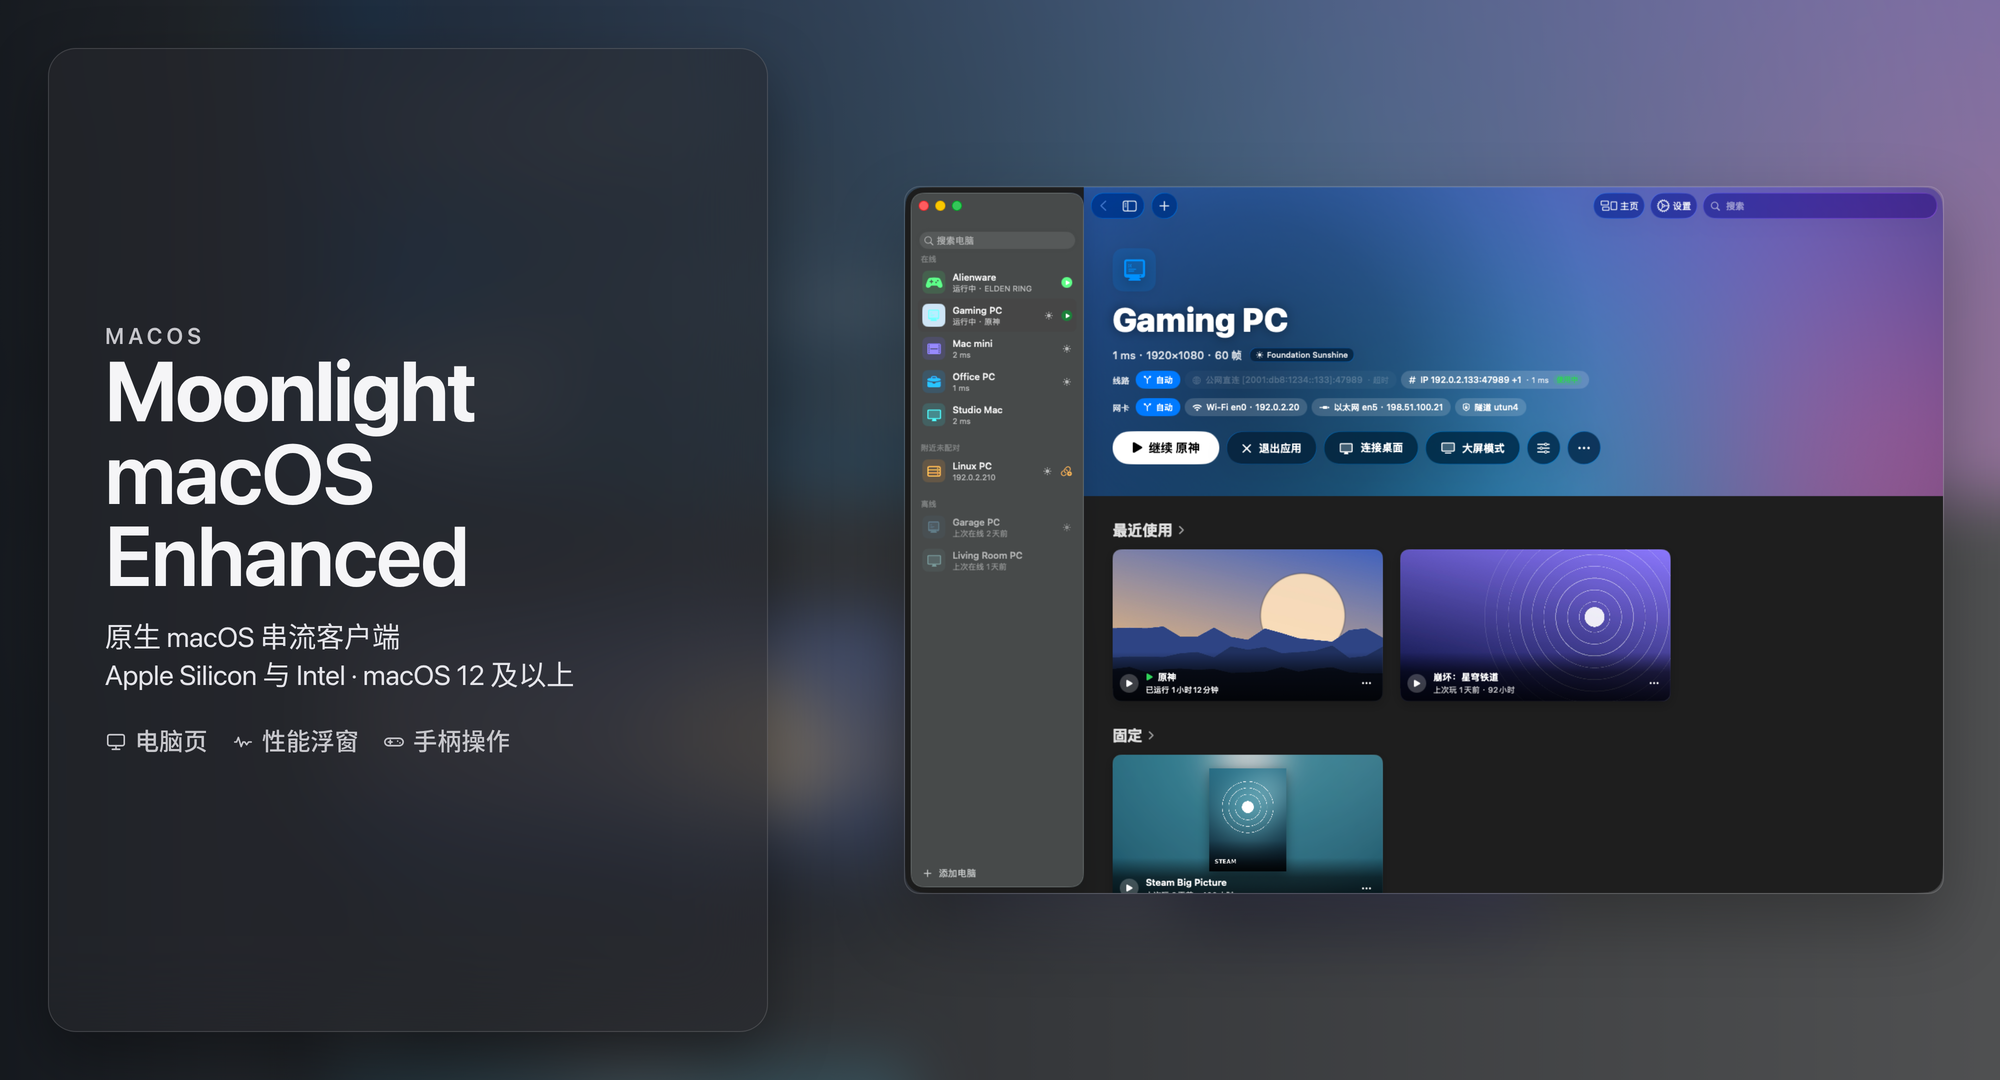
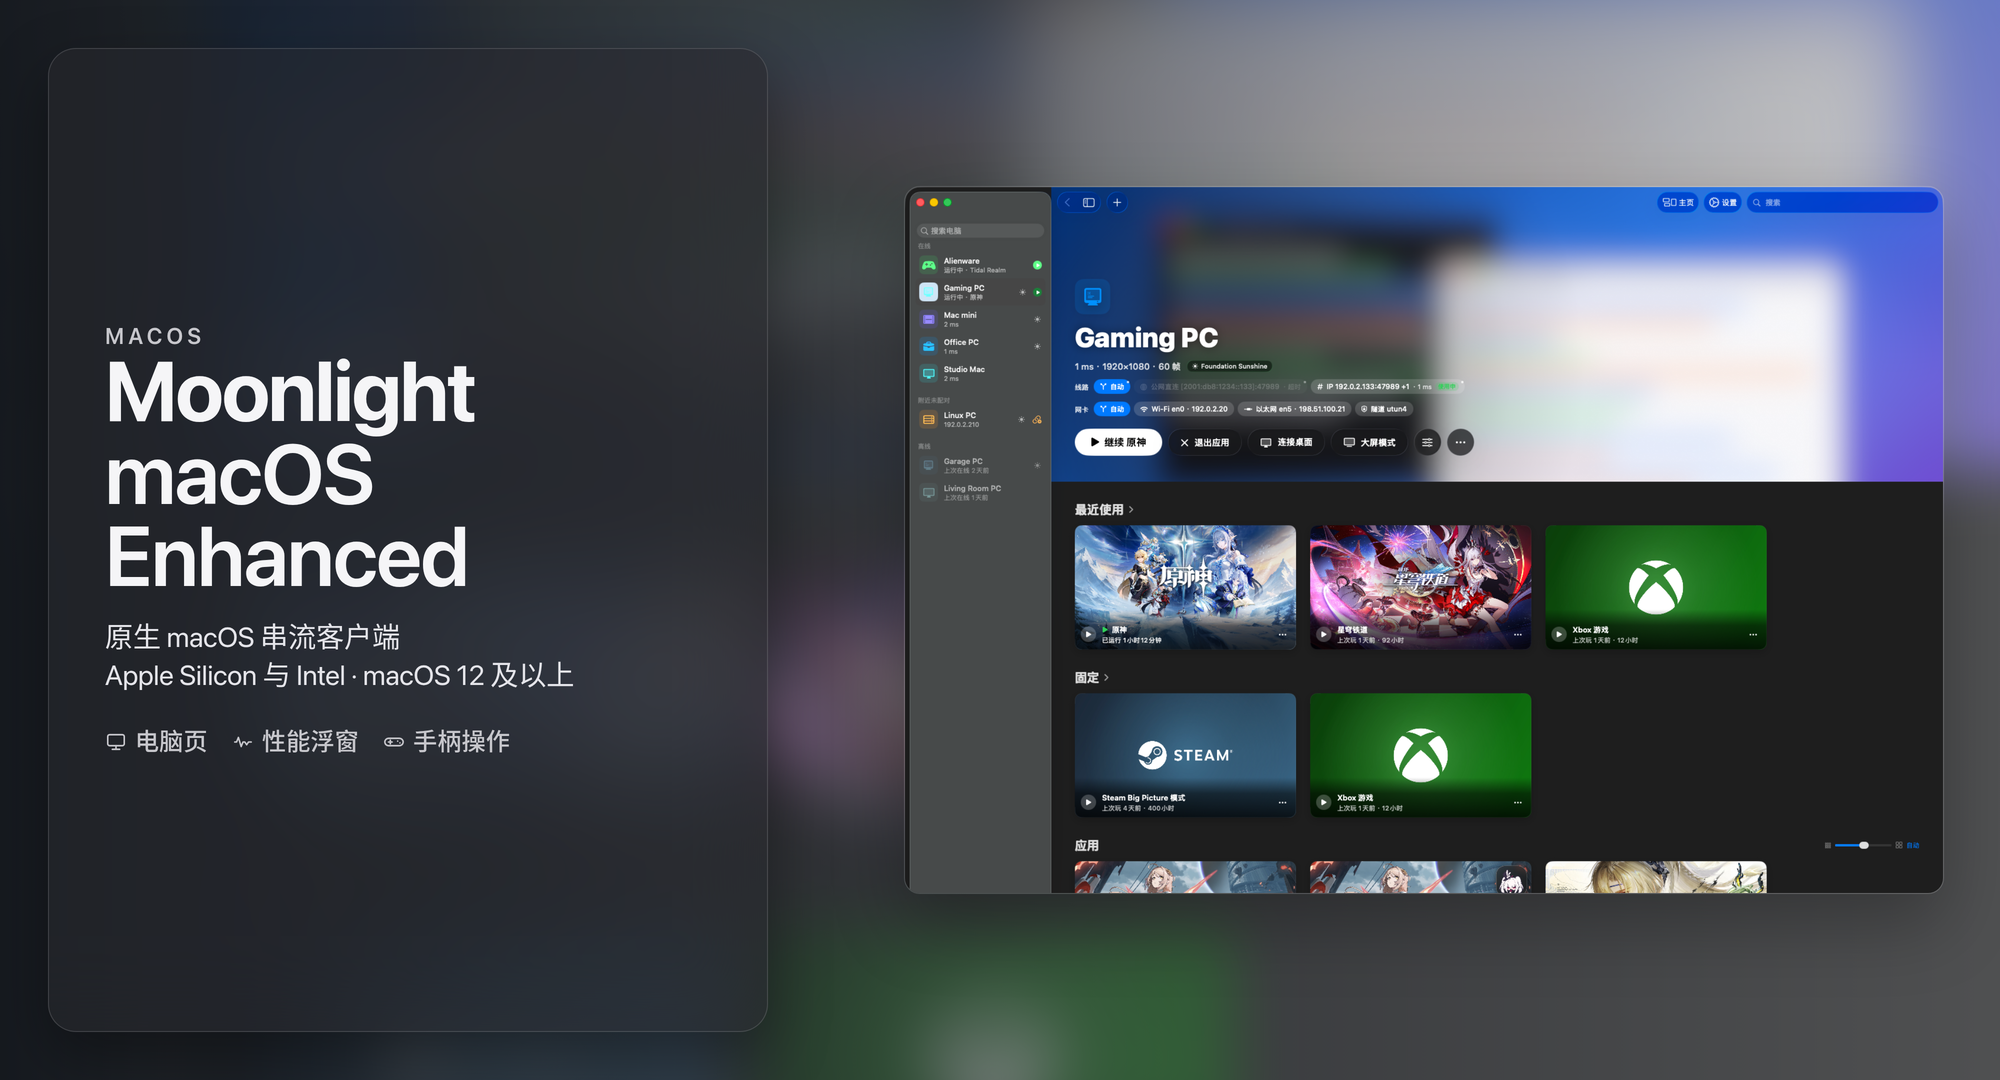
docs(readme): refresh the header visual with the new home screen
The header key visual shows the new home screen with the full library, in light and dark, Chinese and English. The screenshot section starts with the feature table.

diff --git a/README.en.md b/README.en.md
@@ -24,7 +24,7 @@
 
 ## Current Release
 
-**1.3.9 RC8** is described in the [1.3.9 RC8 release notes](.github/release-notes/v1.3.9-rc.8.md). The home page has been redesigned around your computers, there is a new performance HUD, and a controller can operate the home page and Settings. Published packages remain the ones on [Releases](https://github.com/skyhua0224/moonlight-macos-enhanced/releases). 1.3.9 is the final release before the native architecture rebuild.
+**1.3.9 RC8** is described in the [1.3.9 RC8 release notes](.github/release-notes/v1.3.9-rc.8.md). The main window has been redesigned, with fine-grained personalisation, Card and Big Picture views and landscape posters; there is a new performance HUD, and a controller can operate the home page and Settings. Published packages remain the ones on [Releases](https://github.com/skyhua0224/moonlight-macos-enhanced/releases). 1.3.9 is the final release before the native architecture rebuild.
 
 - Download it from [Releases](https://github.com/skyhua0224/moonlight-macos-enhanced/releases). Packages come as `universal`, `arm64`, and `x86_64`; choose `universal` if unsure.
 - If 1.3.9 is already installed, check for updates in `Settings → About & Updates`.
@@ -32,7 +32,7 @@
 
 What changed in 1.3.9 compared with 1.3.8:
 
-- **Every page redesigned**: the home page is built around your computers, Settings can be searched down to individual options, and the whole app works with a controller.
+- **Every page redesigned**: the main window can be personalised, Settings can be searched down to individual options, and the whole app works with a controller.
 - **Setting Profiles**: compare each host with the Default Profile, copy settings, keep presets, import and export.
 - **Audio**: lossless PCM, AC3, E-AC3 and Dolby passthrough, and an output device you can switch during a stream. Audio Enhancement adds a parametric equalizer, headphone correction presets and binaural surround on headphones.
 - **Input**: Precision Touchpad, text entry through macOS input methods, key mapping by typed character, system shortcut capture, Windows key order and Type Clipboard Text. Touchscreen Macs can stream with direct touch. DualSense supports its touchpad, lighting, battery and haptics.
@@ -65,11 +65,6 @@ What changed in 1.3.9 compared with 1.3.8:
 Some of these require Foundation Sunshine; see the next section.
 
 ## Screenshots
-
-<picture>
-  <source media="(prefers-color-scheme: dark)" srcset="readme-assets/images/en/home-dark.png">
-  <img src="readme-assets/images/en/home.png" width="760" alt="Main window">
-</picture>
 
 <table>
 <tr>

diff --git a/README.md b/README.md
@@ -24,7 +24,7 @@
 
 ## 当前版本
 
-**1.3.9 RC8** 的变更见 [1.3.9 RC8 更新说明](.github/release-notes/v1.3.9-rc.8.md)。主页重新设计，以你的电脑为中心；新增性能浮窗；手柄可以操作主页和设置。已发布的安装包仍以 [Releases](https://github.com/skyhua0224/moonlight-macos-enhanced/releases) 为准。1.3.9 是原生架构重建前最后一个版本。
+**1.3.9 RC8** 的变更见 [1.3.9 RC8 更新说明](.github/release-notes/v1.3.9-rc.8.md)。主界面重新设计，可个性化调节界面各处细节，提供卡片/大图两种视图，全新支持横版海报；新增性能浮窗；全面支持用手柄操作主页与设置。已发布的安装包仍以 [Releases](https://github.com/skyhua0224/moonlight-macos-enhanced/releases) 为准。1.3.9 是原生架构重建前最后一个版本。
 
 - 从 [Releases](https://github.com/skyhua0224/moonlight-macos-enhanced/releases) 下载。安装包有 `universal`、`arm64`、`x86_64` 三种，不确定时选 `universal`。
 - 已安装 1.3.9 的用户可以在 `设置 → 关于与更新` 检查更新。
@@ -32,7 +32,7 @@
 
 1.3.9 相比 1.3.8 的主要变化：
 
-- **所有页面全面焕新**：主页以你的电脑为中心，设置可以搜索到具体选项，整个应用都能用手柄操作。
+- **所有页面全面焕新**：主界面可个性化调节，设置可以搜索到具体选项，整个应用都能用手柄操作。
 - **配置方案**：对照每台主机与默认配置的差异，复制设置、保存预设、导入与导出。
 - **音频**：新增无损 PCM、AC3、E-AC3 与杜比直通，串流中可切换输出设备；音效增强新增参数均衡器、耳机校正预设和耳机上的双耳环绕声。
 - **输入**：新增精确式触控板、macOS 输入法输入文字、按字符的按键映射、捕获系统快捷键、Windows 键位顺序和键入剪贴板文本；带触摸屏的 Mac 可以直接触控。DualSense 支持触控板、灯光、电量与触觉反馈。
@@ -65,11 +65,6 @@
 其中一部分需要 Foundation Sunshine，见下一节。
 
 ## 截图
-
-<picture>
-  <source media="(prefers-color-scheme: dark)" srcset="readme-assets/images/home-dark.png">
-  <img src="readme-assets/images/home.png" width="760" alt="主界面">
-</picture>
 
 <table>
 <tr>
